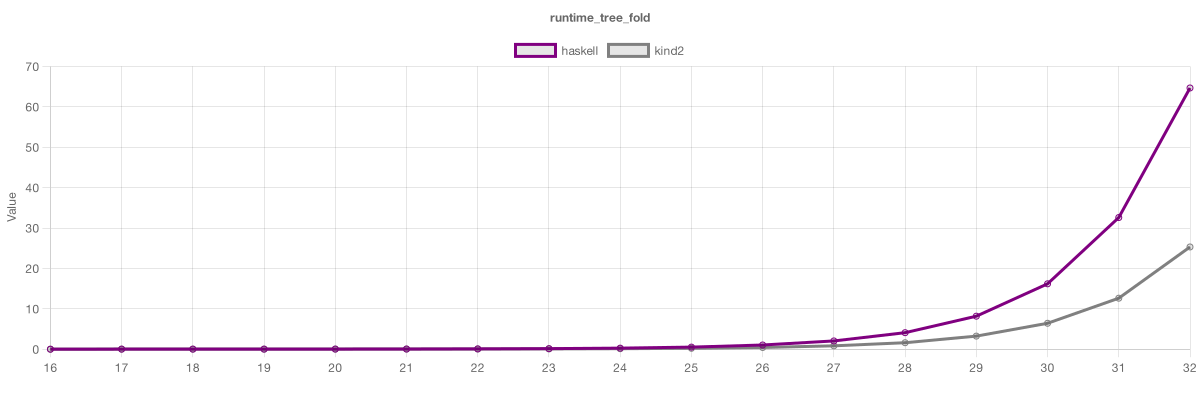
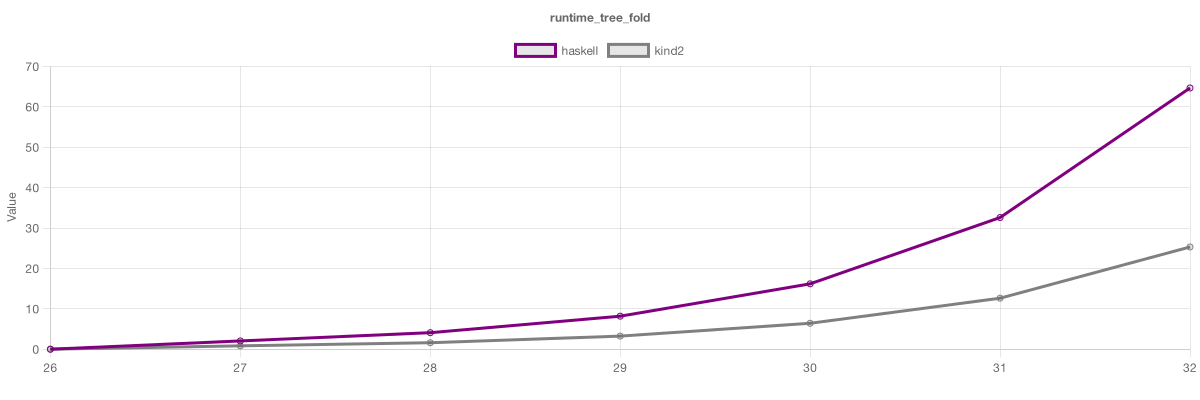
Update image

diff --git a/benchmark.js b/benchmark.js
@@ -10,7 +10,7 @@ var langs = {
       run: true,
       tasks: {
         list_fold: [1,64],
-        tree_fold: [16,32],
+        tree_fold: [26,32],
       },
       build: (task) => {
         save("main.hs", load("Runtime/"+task+".hs"));
@@ -33,7 +33,7 @@ var langs = {
       run: true,
       tasks: {
         list_fold: [1,64],
-        tree_fold: [16,32],
+        tree_fold: [26,32],
       },
       build: (task) => {
         save("main.kind2", load("Runtime/"+task+".kind2"));
